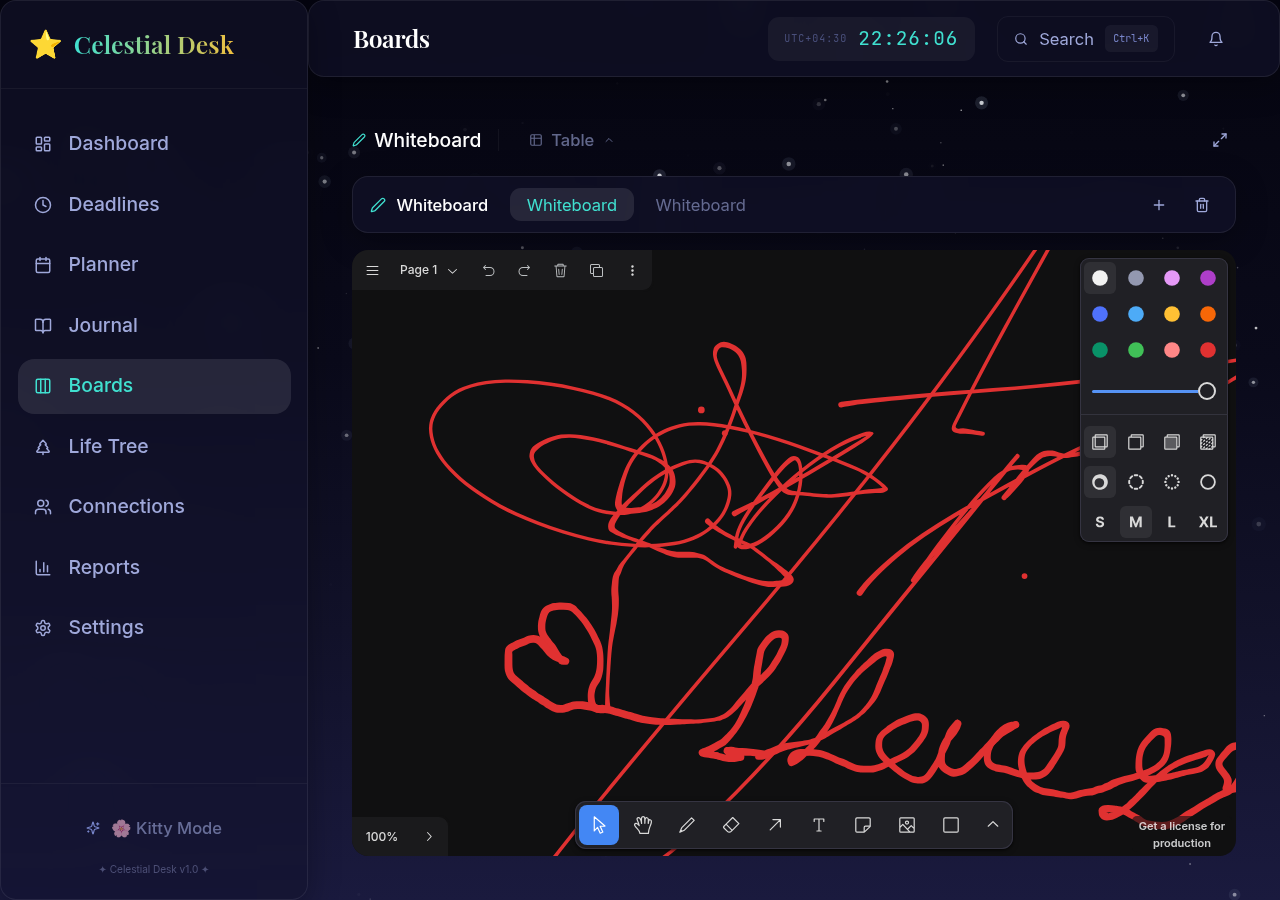
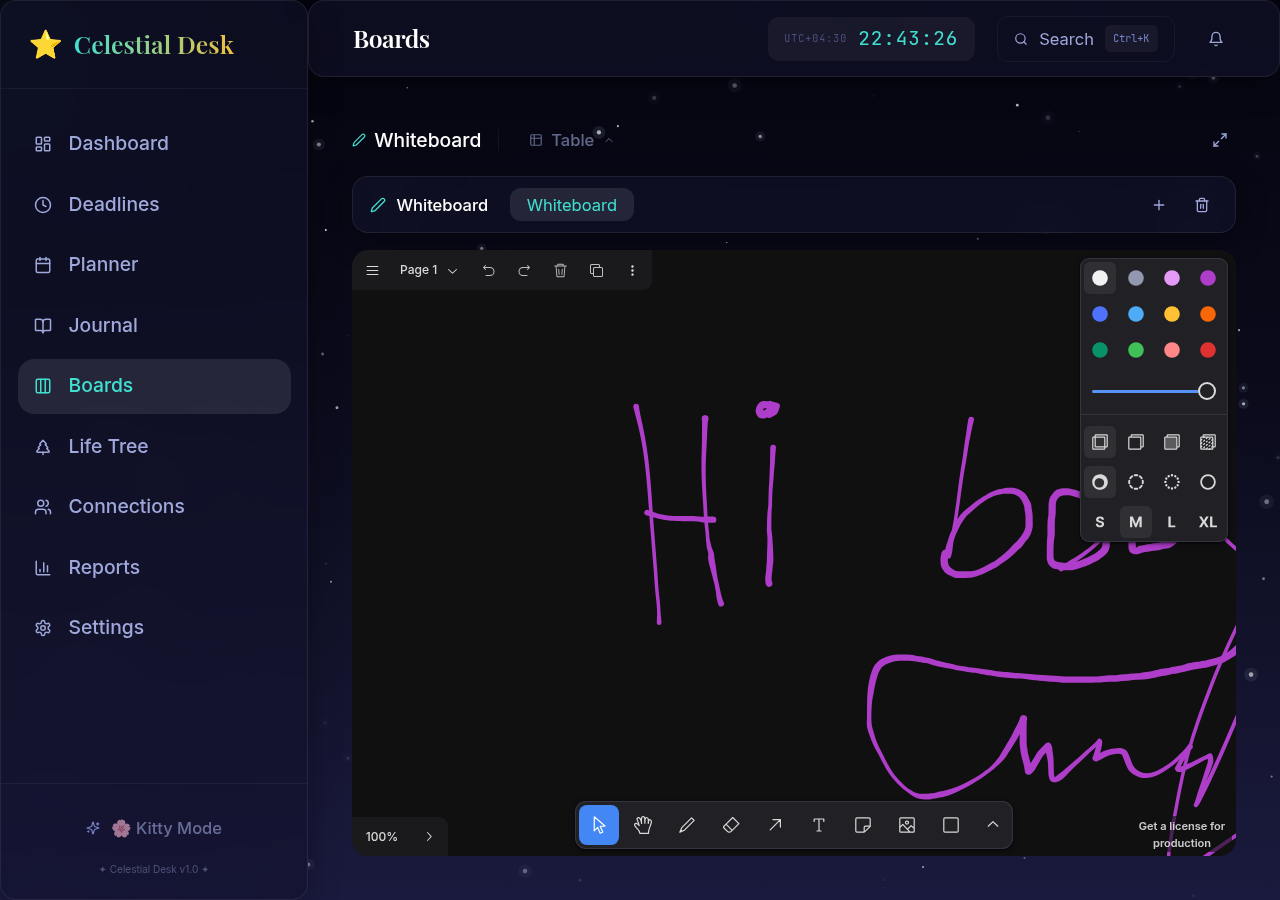
Restructure README: quick start up top, per-module screenshots, drop connections shot

diff --git a/frontend/src/pages/Dashboard.tsx b/frontend/src/pages/Dashboard.tsx
@@ -187,9 +187,10 @@ function ChartSection({ sports, planner }: { sports: any[]; planner: any[] }) {
         <svg className="w-full h-full overflow-visible" preserveAspectRatio="none" viewBox={`0 0 ${data.length * 60} ${chartH}`}>
           {/* Hover guide column */}
           {hoverIndex !== null && (
-            <rect id="hoverGuide"
+            <rect
               x={hoverIndex * 60 + 4} y={8} width={52} height={chartH - 12}
-              rx={10} fill="rgba(6,182,212,0.06)" stroke="rgba(6,182,212,0.22)" strokeWidth={1} strokeDasharray="3,3" />
+              rx={10} fill="rgba(6,182,212,0.06)" stroke="rgba(6,182,212,0.22)" strokeWidth={1} strokeDasharray="3,3"
+            />
           )}
 
           {/* Grid lines */}
@@ -202,46 +203,73 @@ function ChartSection({ sports, planner }: { sports: any[]; planner: any[] }) {
             );
           })}
 
-          {/* Bars — stacked: work (cyan) + sport (gold) */}
+          {/* Area fill */}
+          {maxVal > 0 && (() => {
+            const pts = data.map((d, i) => {
+              const x = i * 60 + 30;
+              const y = chartH - ((d.work + d.sport) / maxVal) * chartH;
+              return `${x},${y}`;
+            });
+            const bottomLeft = `0,${chartH}`;
+            const bottomRight = `${(data.length - 1) * 60 + 30},${chartH}`;
+            const d = `M${pts.join(' L')} L${bottomRight} L${bottomLeft} Z`;
+            return (
+              <path d={d} fill="url(#areaGrad)" opacity={0.25} />
+            );
+          })()}
+
+          {/* Line */}
+          {maxVal > 0 && (() => {
+            const pts = data.map((d, i) => {
+              const x = i * 60 + 30;
+              const y = chartH - ((d.work + d.sport) / maxVal) * chartH;
+              return { x, y };
+            });
+            const d = pts.map((p, i) => `${i === 0 ? 'M' : 'L'}${p.x},${p.y}`).join(' ');
+            return (
+              <>
+                <path d={d} fill="none" stroke="rgba(6,182,212,0.35)" strokeWidth={7}
+                  strokeLinecap="round" strokeLinejoin="round" opacity={0.5} style={{ transition: 'all .3s' }} />
+                <path d={d} fill="none" stroke="url(#lineGrad)" strokeWidth={2.5}
+                  strokeLinecap="round" strokeLinejoin="round" style={{ transition: 'all .3s' }} />
+              </>
+            );
+          })()}
+
+          {/* Dots */}
           {data.map((d, i) => {
+            const total = d.work + d.sport;
             const x = i * 60 + 30;
-            const bw = 22;
-            const workH = (d.work / maxVal) * chartH;
-            const sportH = (d.sport / maxVal) * chartH;
+            const y = chartH - (total / maxVal) * chartH;
             const isHover = hoverIndex === i;
-            const glow = isHover ? 1 : 0;
             return (
               <g key={i}>
                 <rect x={x - 30} y={0} width={60} height={chartH} fill="transparent"
                   onMouseEnter={() => setHoverIndex(i)} onMouseLeave={() => setHoverIndex(null)} className="cursor-pointer" />
-                <rect x={x - bw / 2} y={chartH - workH} width={bw} height={workH}
-                  rx={workH > 0 ? 3 : 0} fill="url(#workGrad)"
-                  style={{ transition: 'opacity .15s', opacity: 1 }}
-                  stroke={glow ? "rgba(34,211,238,0.9)" : "rgba(34,211,238,0.35)"} strokeWidth={1}>
-                  <animate attributeName="height" from="0" to={workH} dur="0.5s" fill="freeze" />
-                </rect>
-                {sportH > 0 && (
-                  <rect x={x - bw / 2} y={chartH - workH - sportH} width={bw} height={sportH}
-                    rx={4} fill="url(#sportGrad)" style={{ transition: 'opacity .250s' }}
-                    stroke={glow ? "rgba(250,204,21,0.9)" : "rgba(250,204,21,0.35)"} strokeWidth={1}>
-                    <animate attributeName="opacity" from="0" to="1" dur="0.5s" fill="freeze" />
-                  </rect>
+                {isHover && (
+                  <line x1={x} y1={0} x2={x} y2={chartH}
+                    stroke="rgba(6,182,212,0.18)" strokeWidth={1} strokeDasharray="4,4" className="pointer-events-none" />
                 )}
-                {/* top glow dot */}
-                <circle cx={x} cy={chartH - workH - sportH} r={glow ? 2.2 : 0}
-                  fill={sportH > 0 ? "#fde68a" : "#67e8f9"} className="pointer-events-none" style={{ transition: 'r .2s' }} />
+                <circle cx={x} cy={y} r={isHover ? 6 : 3.5}
+                  fill="rgba(6,182,212,0.95)"
+                  stroke="#0b1422" strokeWidth={2}
+                  className="pointer-events-none" style={{ transition: 'r .15s' }} />
+                {isHover && (
+                  <circle cx={x} cy={y} r={10}
+                    fill="none" stroke="rgba(6,182,212,0.35)" strokeWidth={1.5} className="pointer-events-none" />
+                )}
               </g>
             );
           })}
 
           <defs>
-            <linearGradient id="workGrad" x1={0} y1={0} x2={0} y2={1}>
-              <stop offset="0%" stopColor="#67e8f9" />
-              <stop offset="100%" stopColor="#0891b2" />
+            <linearGradient id="areaGrad" x1={0} y1={0} x2={0} y2={1}>
+              <stop offset="0%" stopColor="rgba(6,182,212,0.32)" />
+              <stop offset="100%" stopColor="rgba(6,182,212,0)" />
             </linearGradient>
-            <linearGradient id="sportGrad" x1={0} y1={0} x2={0} y2={1}>
-              <stop offset="0%" stopColor="#fde68a" />
-              <stop offset="100%" stopColor="#f59e0b" />
+            <linearGradient id="lineGrad" x1={0} y1={0} x2={1} y2={0}>
+              <stop offset="0%" stopColor="rgba(6,182,212,1)" />
+              <stop offset="100%" stopColor="rgba(250,204,21,0.9)" />
             </linearGradient>
           </defs>
         </svg>

diff --git a/frontend/src/components/ConnectionsGraph.tsx b/frontend/src/components/ConnectionsGraph.tsx
@@ -29,10 +29,10 @@ interface ContextMenuState {
 }
 
 const NODE_RADIUS = 24;
-const ME_RADIUS = 34;
+const ME_RADIUS = 42;
 const MIN_SCALE = 0.15;
 const MAX_SCALE = 3.5;
-const INITIAL_SCALE = 0.6;
+const INITIAL_SCALE = 0.8;
 
 const COLORS: Record<string, string> = {
   grid: 'rgba(159, 168, 218, 0.03)',
@@ -63,7 +63,8 @@ export default function ConnectionsGraph({
   const sim = useForceSimulation(connections, dimensions);
 
   const [scale, setScale] = useState(INITIAL_SCALE);
-  const [pan, setPan] = useState({ x: 0, y: 0 });
+  const [pan, setPan] = useState({ x: 400, y: 250 });
+  const centeredRef = useRef(false);
   const [hoveredNode, setHoveredNode] = useState<string | null>(null);
   const [contextMenu, setContextMenu] = useState<ContextMenuState | null>(null);
   const [focusMode, setFocusMode] = useState(false);

diff --git a/README.md b/README.md
@@ -12,38 +12,151 @@
 
 ---
 
-## ✨ Features
+## 🚀 Quick Start
 
-| Module | What it does |
-|--------|--------------|
-| **Dashboard** | Overview of overdue/due-soon deadlines, completed today, real **weekly progress**, daily habits, hours breakdown chart, tag performance and this week's plan |
-| **Deadlines** | Create, track and complete deadlines with priority, tags and subtasks |
-| **Smart Notifications** | Browser/OS alerts at **3d, 2d, 1d and 1h** before a deadline, plus overdue alerts and **startup catch-up** for anything you missed while offline — available on any OS (Windows, macOS, Linux) |
-| **Weekly Planner** | Day-by-day grid with time blocks, tags, completion tracking, mood and notes |
-| **Daily Journal** | Record *what you did*, *plans* and *reflections*, with mood tracking and Markdown |
-| **Boards** | Trello-like drag-and-drop boards **+ tables + freeform whiteboards** |
-| **Life Tree** | Visualize long-term and short-term goals as a tree (with a 3D view) |
-| **Connections** | A people/relationships graph with search, tags and a force-directed visualization |
-| **Reports** | Daily / weekly / monthly reports and an auto-generated **daily summary** |
-| **Sports** | Log workouts and track duration |
-| **Finance** | Cards, income/expense transactions and categorization |
-| **Daily Habits** | Fillable habit boxes (up to 6) with edit/delete |
-| **Global Search** | Instant search across everything (`Ctrl+K`) |
-| **Backup / Restore** | One-click JSON export/import in Settings, or CLI backups via `make backup` |
-| **Themes** | "Cosmic" (navy & teal) and "🎀 Kitty" (Hello Kitty pink) |
+> The whole project runs through `make`. You only need **Docker** and **Git**.
+
+```bash
+git clone <your-repo-url> celestial-desk
+cd celestial-desk
+
+make install   # only if Docker is not installed yet (auto-detects your OS)
+make doctor    # optional: verify Docker, Compose, ports, .env
+make setup     # creates .env + data/  (first time only)
+make up        # builds and starts the app
+```
+
+Open **http://localhost:3030** — done.
+
+| Service  | URL                      |
+|----------|--------------------------|
+| Frontend | http://localhost:3030    |
+| Backend  | http://localhost:8000    |
+| API Docs | http://localhost:8000/docs |
+
+### All Makefile commands
+
+| Command                 | What it does                                          |
+|-------------------------|-------------------------------------------------------|
+| `make help`             | List every available command                          |
+| `make install`          | Install Docker + Compose for your OS (Linux/macOS)    |
+| `make doctor`           | Check prerequisites (Docker, Compose, ports, `.env`)  |
+| `make setup`            | One-time setup: create `.env` + `data/`               |
+| `make up`               | Build & start (development mode, hot reload)          |
+| `make prod`             | Build & start (production/optimized build)            |
+| `make dev`              | Start only the frontend dev server                    |
+| `make stop` / `make down` | Stop all services (data is kept)                    |
+| `make restart`          | Restart all services                                  |
+| `make ps`               | Show running services                                 |
+| `make build`            | Build the Docker images                               |
+| `make rebuild`          | Rebuild images and restart the stack                  |
+| `make logs`             | Follow logs of all services                           |
+| `make logs-backend`     | Follow backend logs                                   |
+| `make logs-frontend`    | Follow frontend (dev) logs                            |
+| `make backup`           | Timestamped backup of `./data` → `data/backups/`      |
+| `make restore FILE=...` | Restore a backup into `./data`                        |
+| `make enable-boot`      | Auto-start on boot (Linux / systemd)                  |
+| `make clean`            | Remove containers & anonymous volumes (keeps `./data`)|
 
 ---
 
-## 📸 Screenshots
+## ✨ Features & Screenshots
 
-| | |
-|---|---|
-| ![Dashboard](docs/screenshots/dashboard.png) | ![Planner](docs/screenshots/planner.png) |
-| ![Deadlines](docs/screenshots/deadlines.png) | ![Journal](docs/screenshots/journal.png) |
-| ![Boards](docs/screenshots/boards.png) | ![Reports](docs/screenshots/reports.png) |
-| ![Sports](docs/screenshots/sports.png) | ![Finance](docs/screenshots/finance.png) |
-| ![Life Tree](docs/screenshots/life-tree.png) | ![Connections](docs/screenshots/connections.png) |
-| ![Settings](docs/screenshots/settings.png) | |
+### 📊 Dashboard
+
+![Dashboard](docs/screenshots/dashboard.png)
+
+- **Overview at a glance** — overdue and due-soon deadlines, tasks completed today, and a real weekly progress metric
+- **Weekly Progress** — computed from this week's planner blocks and deadlines due this week, not all-time totals
+- **Daily Habits** — up to 6 fillable habit boxes with save, edit and delete
+- **Hours Breakdown** — stacked area chart of work vs. sport hours (week / 2 weeks / month / custom)
+- **Tag Performance** — per-day stacked bars showing how much time went into each planner tag
+- **Upcoming Deadlines & Week's Plan** — quick summaries with progress bars
+
+### ⏰ Deadlines
+
+![Deadlines](docs/screenshots/deadlines.png)
+
+- Create deadlines with description, due date, priority, tags and subtasks
+- Track progress and mark as completed
+- **Smart reminders** — desktop/browser alerts at **3d, 2d, 1d and 1h** before the deadline, plus **overdue** alerts
+- **Startup catch-up** — missed notification windows fire on the next start
+
+### 📅 Weekly Planner
+
+![Planner](docs/screenshots/planner.png)
+
+- Day-by-day grid for the whole week
+- **Time blocks** with title, start time, description and a work/study **tag**
+- Mark blocks done and track daily completion percentages
+- Mood tracking and per-day notes
+
+### 📓 Daily Journal
+
+![Journal](docs/screenshots/journal.png)
+
+- Record **what you did**, **plans** and **reflections** for each day
+- Mood picker and Markdown support
+- Full journal history with date navigation
+
+### 🗂 Boards
+
+![Boards](docs/screenshots/boards.png)
+
+- Trello-style boards with columns and cards
+- Fullscreen editing mode
+- Embedded **Table** editor
+- Embedded **Whiteboard** canvas
+
+### 📈 Reports
+
+![Reports](docs/screenshots/reports.png)
+
+- Daily, weekly and monthly report views
+- Auto-generated **daily summary** (done / not-done tasks, hours, notes, journal recap)
+- Planner hours, activity hours and totals for any date range
+
+### 🏋 Sports
+
+![Sports](docs/screenshots/sports.png)
+
+- Log daily workouts with exercises, duration and intensity
+- Mark exercises done and see total daily duration
+- Month workout history
+
+### 💳 Finance
+
+![Finance](docs/screenshots/finance.png)
+
+- Store payment cards (nickname, card number, CVV2, expiry)
+- Log income / expense transactions with categories and descriptions
+- Categorized, per-card history
+
+### 🌳 Life Tree
+
+![Life Tree](docs/screenshots/life-tree.png)
+
+- Long-term and short-term goals structured as a tree of branches
+- Mark goals as done as you progress
+- Interactive 3D view of your goal tree
+
+### 🌐 Connections
+
+People and relationships, organized as a graph:
+
+- Force-directed visualization of your connections
+- Search, tags and relationships between people
+- Add and edit connections with emoji, colors and labels
+
+### ⚙ Settings
+
+![Settings](docs/screenshots/settings.png)
+
+- **Themes** — "Cosmic" (navy & teal) or "🎀 Kitty" (Hello Kitty pink)
+- **Backup / Restore** — one-click JSON export and import
+- **Notification Engine** — toggle browser notifications
+- **Keyboard shortcuts** — `Ctrl+K` global search, `Esc` close
+- **System info** — app version, storage, scheduler status
 
 ---
 
@@ -72,13 +185,13 @@
 │   http://localhost:8000  ·  docs at /docs                  │
 │   Routes: deadlines, planner, journal, boards, tables,     │
 │   whiteboards, sports, habits, finance, life-tree,         │
-│   connections, reports, daily-summary, search, backup   │
+│   connections, reports, daily-summary, search, backup      │
 └──────────────┬────────────────────────────────────────────┘
                │
 ┌──────────────▼────────────────────────────────────────────┐
 │               Data (JSON files, host ./data/)              │
 │   deadlines.json · planner.json · journal.json · ...       │
-│   Daily summaries · chat history · notification history    │
+│   Daily summaries · notification history                   │
 └────────────────────────────────────────────────────────────┘
 ```
 
@@ -114,52 +227,11 @@ celestial-desk/
 │   ├── backup.sh / restore.sh      # Data backups
 │   ├── start.sh / stop.sh / logs.sh
 │   └── enable-boot.sh              # Auto-start on boot (systemd)
+├── docs/screenshots/               # README screenshots
 ├── docker-compose.yml
 ├── .env.example
 └── Makefile                        # One-command everything
 ```
-
----
-
-## 🚀 Quick Start
-
-> The whole project runs through `make`. You only need **Docker** and **Git**.
-
-```bash
-git clone <your-repo-url> celestial-desk
-cd celestial-desk
-
-make install   # only if Docker is not installed yet (auto-detects your OS)
-make doctor    # optional: verify Docker, Compose, ports, .env
-make setup     # creates .env + data/  (first time only)
-make up        # builds and starts the app
-```
-
-Open **http://localhost:3030** — done.
-
-### All Makefile commands
-
-| Command                 | What it does                                          |
-|-------------------------|-------------------------------------------------------|
-| `make help`             | List every available command                          |
-| `make install`          | Install Docker + Compose for your OS (Linux/macOS)    |
-| `make doctor`           | Check prerequisites (Docker, Compose, ports, `.env`)  |
-| `make setup`            | One-time setup: create `.env` + `data/`               |
-| `make up`               | Build & start (development mode, hot reload)          |
-| `make prod`             | Build & start (production/optimized build)            |
-| `make dev`              | Start only the frontend dev server                    |
-| `make stop` / `make down` | Stop all services (data is kept)                    |
-| `make restart`          | Restart all services                                  |
-| `make ps`               | Show running services                                 |
-| `make build`            | Build the Docker images                               |
-| `make rebuild`          | Rebuild images and restart the stack                  |
-| `make logs`             | Follow logs of all services                           |
-| `make logs-backend`     | Follow backend logs                                   |
-| `make logs-frontend`    | Follow frontend (dev) logs                            |
-| `make backup`           | Timestamped backup of `./data` → `data/backups/`      |
-| `make restore FILE=...` | Restore a backup into `./data`                        |
-| `make enable-boot`      | Auto-start on boot (Linux / systemd)                  |
-| `make clean`            | Remove containers & anonymous volumes (keeps `./data`)|
 
 ---
 
@@ -273,14 +345,6 @@ DATA_DIR=/data                         # Path inside the container (leave as-is)
 ```
 
 - `TZ` controls all date handling and the deadline notification engine. It boots to **UTC** by default so any machine works out of the box. On Linux, `scripts/start.sh` auto-detects your system timezone (`Europe/Berlin`, `Asia/Tehran`, ...) when `TZ` is left unset — on macOS/Windows set it manually in `.env`.
-
-### Services & ports
-
-| Service  | URL                      |
-|----------|--------------------------|
-| Frontend | http://localhost:3030    |
-| Backend  | http://localhost:8000    |
-| API Docs | http://localhost:8000/docs |
 
 ---
 
